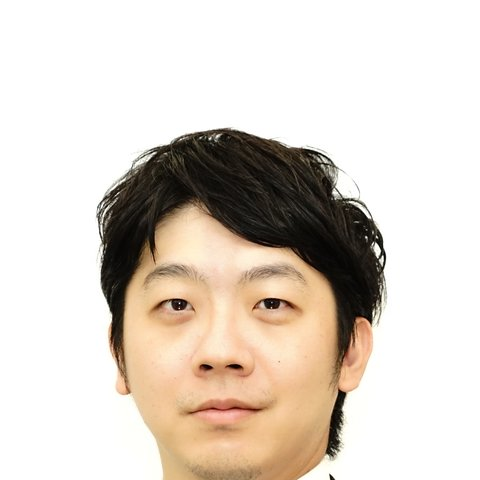
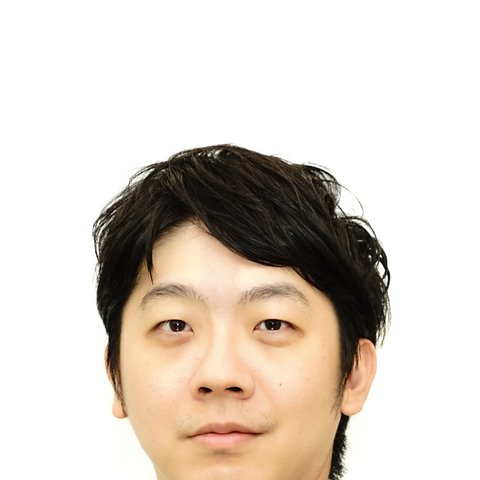
Add the official series emblem, update Ueda's title, retouch his photo
- Replace the plain-text hero kicker ("未来を創る顧問セミナー 第3回
  オープンセミナー") with the official series emblem artwork
  (compass + gold/red crest), sized large per feedback.
- Add 上田's full name and title (代表取締役COO 上田将也) to both the
  speaker card and the program timeline, replacing the bare "上田".
- Re-crop his headshot with less empty space above the hair so the
  face sits higher/larger in the circular frame.

Changed region(s): [[0.1875, 0.25, 0.8125, 1.0]]

diff --git a/index.html b/index.html
@@ -65,7 +65,7 @@
     <div class="wrap hero-grid">
       <div class="inner reveal">
         <span class="chip">参加無料 ｜ オンライン(Zoom)開催 ｜ 定員200名</span>
-        <p class="hero-kicker">未来を創る顧問セミナー　第3回オープンセミナー</p>
+        <img class="hero-emblem" src="assets/emblem-mirai-komon.png" alt="未来を創る顧問セミナー 第3回オープンセミナー">
         <h1>「中小企業の生成AI<em>徹底活用</em>セミナー」</h1>
         <p class="hero-date">2026年11月27日（金）　14:00〜16:00</p>
         <p class="sub">顧問先企業様・提携金融機関様向けの特別セミナーです。経営のヒントになる生成AI活用の最前線を、各分野のプロフェッショナルが分かりやすく解説します。</p>
@@ -154,7 +154,7 @@
           <div class="timeline-body">
             <span class="timeline-tag">オープニング</span>
             <h3>本日のAIセミナーの説明</h3>
-            <p class="timeline-speaker">ひかりデジタルパートナーズ株式会社　上田</p>
+            <p class="timeline-speaker">ひかりデジタルパートナーズ株式会社　代表取締役COO　上田将也</p>
           </div>
         </li>
         <li class="timeline-item">
@@ -212,9 +212,9 @@
 
       <div class="grid-speakers reveal">
         <div class="speaker-card" tabindex="0">
-          <div class="speaker-face" style="--c:#002E62"><img src="assets/speaker-ueda.jpg" alt="上田"></div>
-          <h3>上田</h3>
-          <p class="speaker-role">ひかりデジタルパートナーズ株式会社</p>
+          <div class="speaker-face" style="--c:#002E62"><img src="assets/speaker-ueda.jpg" alt="上田将也"></div>
+          <h3>上田 将也</h3>
+          <p class="speaker-role">ひかりデジタルパートナーズ株式会社　代表取締役COO</p>
           <img class="speaker-logo" src="assets/logo-hikari.png" alt="ひかりデジタルパートナーズ株式会社">
           <p class="speaker-topic">「本日のAIセミナーの説明」</p>
           <div class="speaker-detail">

diff --git a/style.css b/style.css
@@ -220,11 +220,12 @@ section{ padding: 80px 0; position: relative; }
   top:-16px; bottom:-16px; left:-9999px; right:-24px;
   background: linear-gradient(90deg, rgba(0,0,0,.72) 0%, rgba(0,0,0,.62) 70%, rgba(0,0,0,0) 100%);
 }
-.hero-kicker{
-  font-family: var(--font-mono); font-weight:700; letter-spacing:.08em;
-  font-size: 13px; color: var(--accent-light); margin: 0 0 10px;
-  text-shadow: 0 1px 8px rgba(0,0,0,.7);
+.hero-emblem{
+  height: 140px; width: auto; max-width: 100%; object-fit: contain;
+  margin: 18px 0 6px;
+  filter: drop-shadow(0 4px 14px rgba(0,0,0,.5));
 }
+@media (max-width: 560px){ .hero-emblem{ height: 90px; } }
 .hero .chip{ background: rgba(0,0,0,.45); color: #fff; border-color: rgba(255,255,255,.35); text-shadow: 0 1px 6px rgba(0,0,0,.6); }
 .hero h1{ font-size: clamp(28px, 4vw, 42px); line-height: 1.55; margin: 16px 0 20px; color:#fff; text-shadow: 0 2px 18px rgba(0,0,0,.7); }
 .hero h1 em{ font-style:normal; color: var(--accent-light); }
